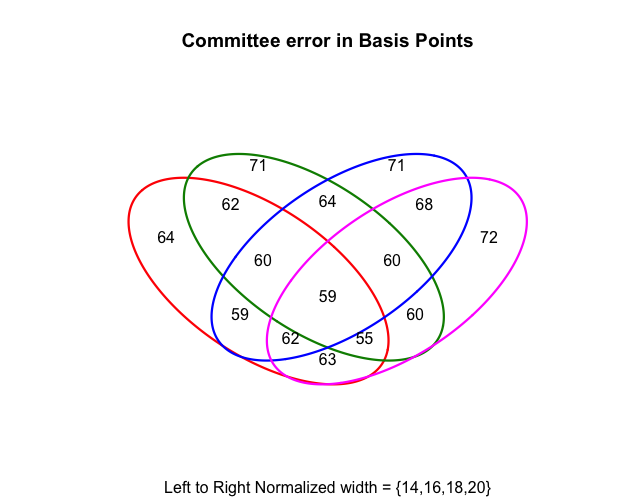
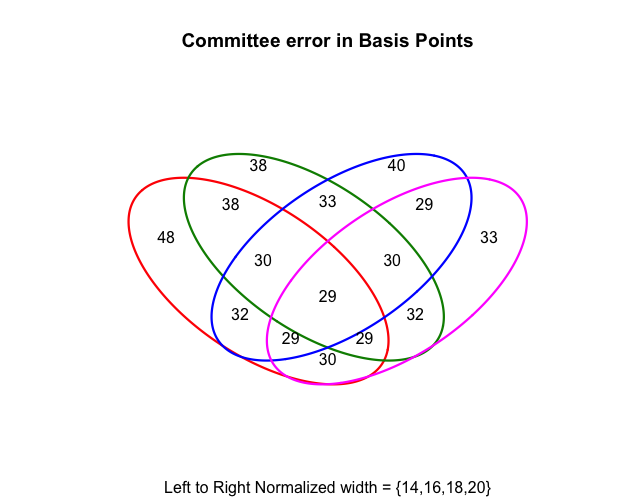
Update results with successful 128 batch size

diff --git a/README.md b/README.md
@@ -18,29 +18,33 @@ The prediction process consists of:
 
 ## Results:
 
-Our best result is 0.57% error with 5 columns, trained at normalized widths 12, 14, 16, 18, and 20.
+Our best result is an error of 0.29%.
 
 ![4 model committees](./plots/4Model_committees.png)
-*This figure shows the error in basis points on 10,000 test points from various combinations of trained network columns. The only difference between the 4 individual pictured columns is the normalized width of the training set, which progresses from 14 to 20, left to right, by 2. The best result pictured is an error of 59 basis points, i.e. an **error of 0.59%**, from both a 3 column network (normalized widths 14,16,18) and 4 column network (all 4 normalized widths here). This figure was made by `venn_diagram.r`*
+*This figure shows the error in basis points on 10,000 test points from various combinations of trained network columns. The only difference between the 4 individual pictured columns is the normalized width of the training set, which progresses from 14 to 20, left to right, by 2. The best result pictured is an error of 29 basis points, i.e. an **error of 0.29%**, from a 4 column network (all 4 normalized widths), and combinations of other columns ({14,18,20}, {14,16,20}, and {18,20}). This figure was made by `venn_diagram.r` (data generated by `4way_test_ciresan2012.py`)*
 
-Counter-intuitively, a smaller normalized width improved results. Most likely, this is due to the increased effect of distortion on smaller digit sizes improving the quality of the trained net. We can investigate this effect further by raising alpha, or sigma for our training sets (especially the larger digit normalizations).
+As we would expect, a larger normalized width improved results.
 
 #### A table of various trials run:
 
-| Batch Size | Norm. Width | Distortion Sigma | Distortion Alpha | # itr     | val err % | test err % | min | epochs |
-|------------|-------------|------------------|------------------|-----------|-----------|------------|-----|--------|
-| 300        | 20          | NA               | NA               | 274,000   | 2.34      | 2.64       | 118 | 547    |
-| 1000       | 20          | NA               | NA               | NA        | NA        | 11         | 60  | NA     |
-| 50         | 20          | 6                | 36               | 800,000   | 2.85      | 3.46       | 366 | 800    |
-| 100        | 20          | 8                | 36               | 400,000   | 4.01      | 4.79       | 243 | 800    |
-| 50         | 20          | 8                | 36               | 752,000   | 2.57      | 3.44       | 231 | 751    |
-| 25         | 20          | 8                | 36               | 1,600,000 | 1.82      | 2.04       | 310 | 800    |
-| 12         | 20          | 8                | 36               | 3,500,000 | 1.25      | 1.59       | 553 | 800    |
-| 12         | 18          | 8                | 36               | 3,500,000 | 1.33      | 1.59       | 554 | 800    |
-| 12         | 16          | 8                | 36               | 3,500,000 | 1.38      | 1.79       | 553 | 800    |
-| 12         | 14          | 8                | 36               | 3,500,000 | 1.47      | 1.93       | 553 | 800    |
 
-*Note: 1) the decrease in train time between data rows 4 and 5 although the batch size decreased from 100 to 50. This is due to switching to a faster convolution implementation from [cuda-convnet](https://code.google.com/p/cuda-convnet/) via [py2learn](http://benanne.github.io/2014/04/03/faster-convolutions-in-theano.html). 2) the high validation error with comparison to the test error, this is due to distortion being applied to the input data for validation but not test. 3) Error on smaller normalized width increases, since the fixed distortion params are more effective on the smaller images.*
+| Batch Size | Init Learning Rate | Norm. Width | Distortion Sigma | Distortion Alpha | # itr     | val err % | test err % | min | epochs |
+|------------|--------------------|-------------|------------------|------------------|-----------|-----------|------------|-----|--------|
+| 300        | 0.001              | 20          | NA               | NA               | 274,000   | 2.34      | 2.64       | 118 | 547    |
+| 1000       | 0.001              | 20          | NA               | NA               | NA        | NA        | 11         | 60  | NA     |
+| 50         | 0.001              | 20          | 6                | 36               | 800,000   | 2.85      | 3.46       | 366 | 800    |
+| 100        | 0.001              | 20          | 8                | 36               | 400,000   | 4.01      | 4.79       | 243 | 800    |
+| 50         | 0.001              | 20          | 8                | 36               | 752,000   | 2.57      | 3.44       | 231 | 751    |
+| 25         | 0.001              | 20          | 8                | 36               | 1,600,000 | 1.82      | 2.04       | 310 | 800    |
+| 12         | 0.001              | 20          | 8                | 36               | 3,500,000 | 1.25      | 1.59       | 553 | 800    |
+| 12         | 0.001              | 18          | 8                | 36               | 3,500,000 | 1.33      | 1.59       | 554 | 800    |
+| 12         | 0.001              | 16          | 8                | 36               | 3,500,000 | 1.38      | 1.79       | 553 | 800    |
+| 12         | 0.001              | 14          | 8                | 36               | 3,500,000 | 1.47      | 1.93       | 553 | 800    |
+| 128        | 0.01               | 20          | 8                | 36               | NA        | 4.04      | 5.22       | 140 | 800    |
+| 128        | 0.2                | 20          | 8                | 36               | 186,000   | 0.31      | 0.79       | 77  | 431    |
+
+
+*Note: 1) the decrease in train time between data rows 4 and 5 although the batch size decreased from 100 to 50. This is due to switching to a faster convolution implementation from [cuda-convnet](https://code.google.com/p/cuda-convnet/) via [py2learn](http://benanne.github.io/2014/04/03/faster-convolutions-in-theano.html). 2) the high validation error with comparison to the test error, this is due to distortion being applied to the input data for validation but not test. 3) Error on smaller normalized width increases, since the fixed distortion params are more effective on the smaller images. 4) Only in the last two rows did we stray from the learning rate hyper-parameters specified by Ciresan 2012. We adjusted the learning rate until the average ratio of the L1 norm of the gradient to L1 norm of the parameters was close to 0.001. This lead to much quicker learning (best result usually achieved around 200 epochs, and no/little improvement thereafter).*
 
 ## Hyper-parameters
 
